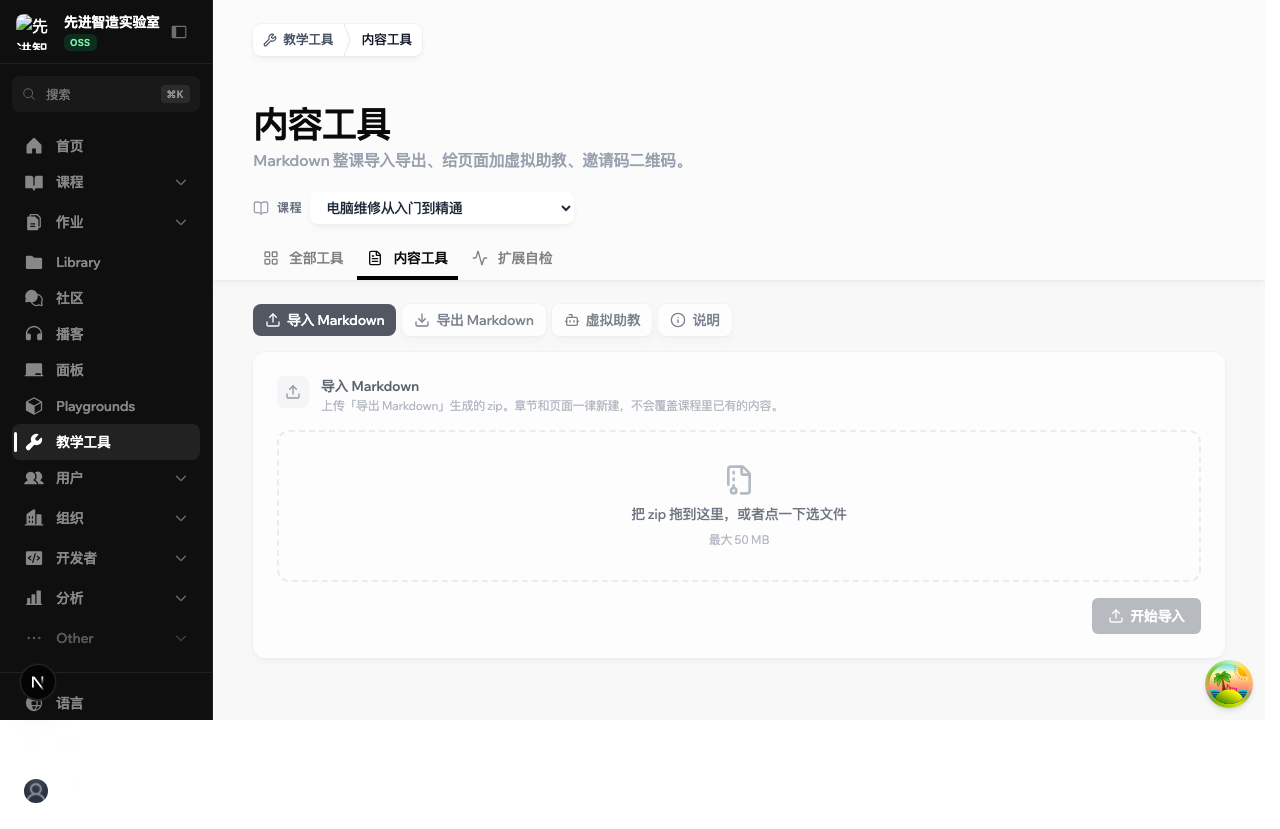
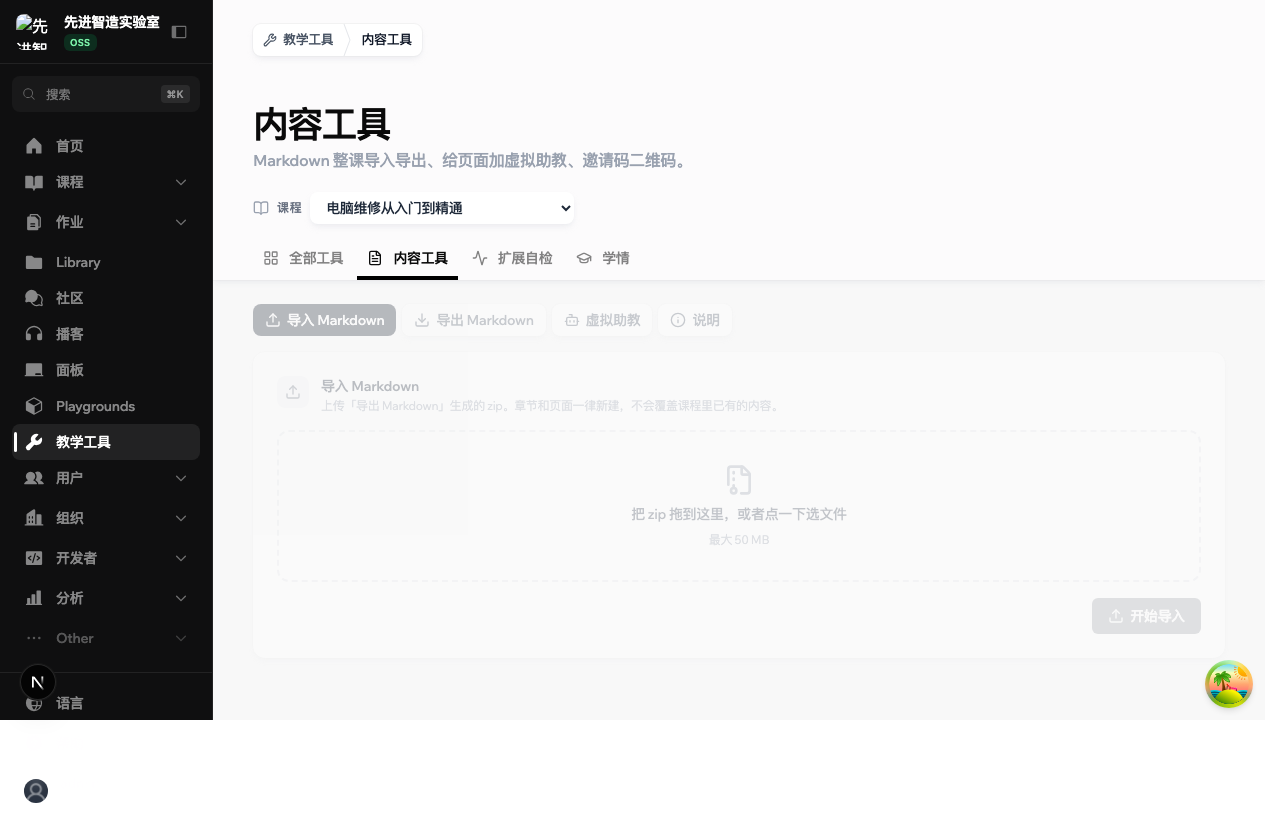
chore(ext-content-tools): rebase 到 sysu-sam，query key 按工具分层
合入学情工具之后重新 rebase，四处共用文件的冲突都按「两边都留」解：
后端 SUBMODULES、命令面板与注册表的图标 import、query keys。

query key 跟着学情的写法改成按工具分一层（ext.content.avatarConfig 等），
原来平铺在 ext 下面，工具一多就会撞名。

e2e 文件改名 03-content-tools.spec.ts，避开和学情的 02- 撞号。

rebase 后重新验了一遍：134 条 pytest、275 条 bun test、ruff、tsc 全过，
features/ext 的 14 条端到端全过（学情那 3 条没被影响）。

Claude-Session: https://claude.ai/code/session_0144QubVKMCjHykczJKNsaGh

diff --git a/docs/sysu-sam/QA/content-tools.md b/docs/sysu-sam/QA/content-tools.md
@@ -19,11 +19,11 @@ uv run --no-sync ruff check src/services/ext src/routers/ext src/tests/ext
 
 | 项 | 结果 |
 |---|---|
-| pytest（`src/tests/ext` 全量，含骨架的 12 条） | 92 passed |
+| pytest（`src/tests/ext` 全量，含骨架与学情的用例） | 134 passed |
 | ruff | All checks passed |
 
-本分支贡献 80 条：73 条纯逻辑（不碰库不碰网），7 条用 conftest 的内存 SQLite
-真跑 service 调用。
+本分支贡献 86 条：73 条纯逻辑（不碰库不碰网），13 条用 conftest 的内存 SQLite
+真跑 service 调用（导入导出往返 7 条、虚拟助教追加 6 条）。
 
 **环境坑（其他代理也会踩）**：`uv sync` 装不上 `greenlet`，但 SQLAlchemy 的
 async 引擎必须要它，缺了所有碰数据库的测试都报
@@ -121,7 +121,11 @@ E2E_STUDENT_EMAIL=user2@example.local E2E_STUDENT_PASSWORD='…' \
 bun run test features/ext --workers=1
 ```
 
-**11 passed**（骨架 6 条 + 内容工具 5 条）。截图在 `docs/sysu-sam/QA/content/`。
+`--workers=1` 不是必须，但并行跑的时候几个用例会抢同一门课的数据，
+串行更容易复现问题。
+
+**14 passed**（骨架 6 条 + 学情 3 条 + 内容工具 5 条）。rebase 到最新 sysu-sam
+之后重跑过一遍，学情那三条没被影响。截图在 `docs/sysu-sam/QA/content/`。
 
 | 用例 | 验到了什么 | 截图 |
 |---|---|---|
